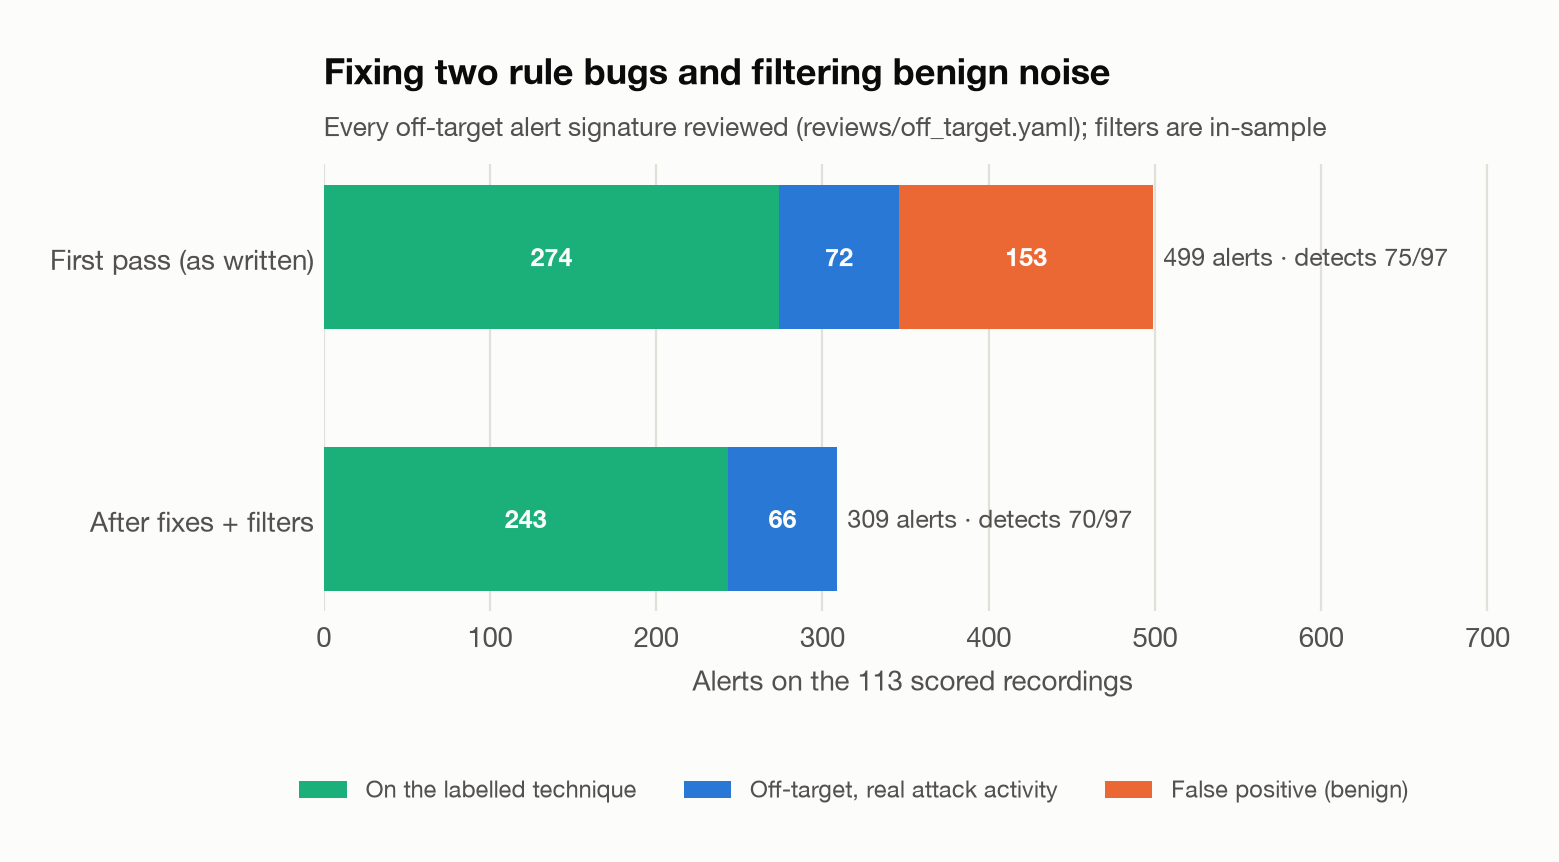
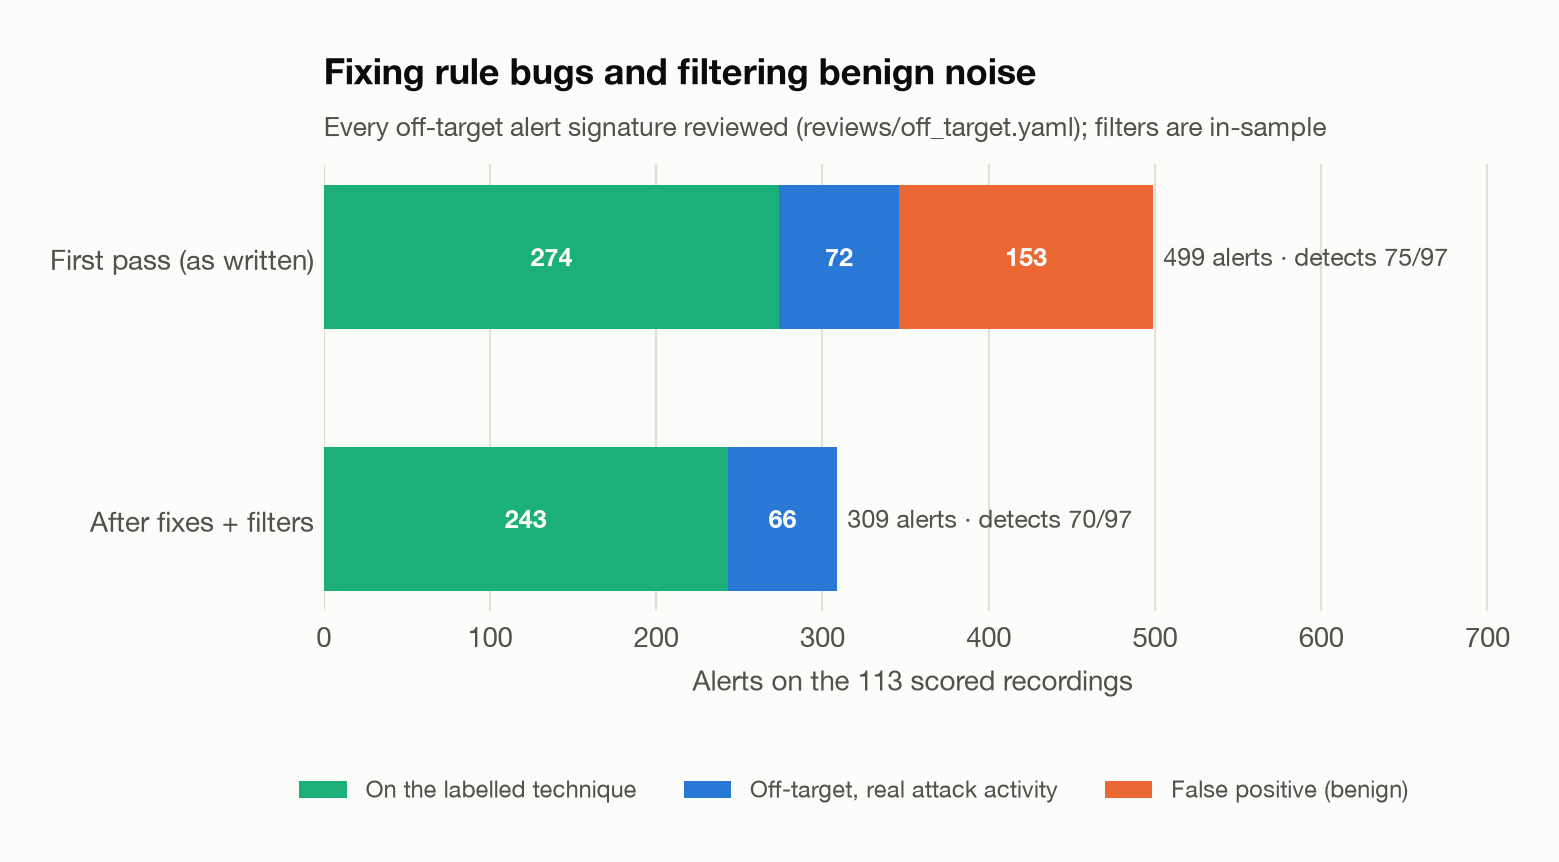
Reports: correct a verdict rationale and two hard-coded captions
- The 0x1010 LSASS access in the over-pass-the-hash recording is read-only
  (VM_READ + QUERY_LIMITED); its rationale said "write rights", copied from the
  0x1038 entry.
- The before/after figure and REPORT.md said "two rule bugs" / "two classes";
  the tuning log now holds more fixes, so the text no longer counts them.
- The rule-matrix caption called a star a "labelled detection", but it marks an
  expected detection (parent-technique credit included), which differs from the
  per-rule "own technique" column for powershell_download_cradle.

Reports and figures regenerated with `dac evaluate` / the first-pass rebuild;
metrics.json and the detection matrices are unchanged.

Changed region(s): [[0.2771, 0.0603, 0.7081, 0.1206]]

diff --git a/src/dac/plots.py b/src/dac/plots.py
@@ -180,7 +180,7 @@ def alerts_before_after(first: dict[str, Any], final: dict[str, Any], path: Path
     )
     _titles(
         ax,
-        "Fixing two rule bugs and filtering benign noise",
+        "Fixing rule bugs and filtering benign noise",
         "Every off-target alert signature reviewed (reviews/off_target.yaml); "
         "filters are in-sample",
     )
@@ -238,7 +238,7 @@ def rule_matrix(
     _titles(
         ax,
         "Where each rule fires",
-        "Recordings with at least one alert, by recording tactic; * includes a labelled detection",
+        "Recordings with at least one alert, by recording tactic; * includes an expected detection",
         offset=44,
     )
     return _save(fig, path)

diff --git a/src/dac/report.py b/src/dac/report.py
@@ -94,7 +94,7 @@ def write_report(
             "## First pass vs. after tuning",
             "",
             "The first pass is the rule set as written, before looking at any result. Tuning fixed "
-            "two classes of rule bugs and added benign-noise filters (see "
+            "rule bugs and added benign-noise filters (see "
             "`reviews/tuning_log.yaml`; the exact rule diff is in "
             "`reports/first_pass/rules.diff`).",
             "",

diff --git a/reports/REPORT.md b/reports/REPORT.md
@@ -14,7 +14,7 @@ Generated by `dac evaluate` on 2026-10-13. Data: [OTRF/Security-Datasets](https:
 
 ## First pass vs. after tuning
 
-The first pass is the rule set as written, before looking at any result. Tuning fixed two classes of rule bugs and added benign-noise filters (see `reviews/tuning_log.yaml`; the exact rule diff is in `reports/first_pass/rules.diff`).
+The first pass is the rule set as written, before looking at any result. Tuning fixed rule bugs and added benign-noise filters (see `reviews/tuning_log.yaml`; the exact rule diff is in `reports/first_pass/rules.diff`).
 
 | | First pass | After tuning |
 |---|---:|---:|
@@ -131,7 +131,7 @@ Five first-pass detections were right for the wrong reason: the admin-share rule
 | create_remote_thread_injection | `SourceImage=wuauclt.exe \| TargetImage=&lt;unknown process&gt;` | 1 | 1 | attack | wuauclt.exe proxy-loads a DLL that then creates a remote thread; the recording is labelled only with the proxy-execution technique (T1218). |
 | dcom_lateral_execution | `ParentImage=explorer.exe \| Image=powershell.exe \| Verb=-c` | 1 | 1 | attack | Run-key persistence firing at logon: explorer.exe starts the registered PowerShell launcher. The recording's own technique, seen at execution time. |
 | lsass_memory_access | `SourceImage=wsmprovhost.exe \| GrantedAccess=0x1410` | 8 | 1 | attack | Process enumeration from .NET code inside the operator's PowerShell Remoting session (CallTrace shows JIT frames in wsmprovhost); LSASS is opened as one of all processes. |
-| lsass_memory_access | `SourceImage=powershell.exe \| GrantedAccess=0x1010` | 1 | 1 | attack | In-memory tooling opening LSASS with write rights to patch it for over-pass-the-hash, the technique the recording is labelled with (T1550.002). |
+| lsass_memory_access | `SourceImage=powershell.exe \| GrantedAccess=0x1010` | 1 | 1 | attack | In-memory tooling (unbacked frames in the CallTrace) opening LSASS with read rights, the read half of the over-pass-the-hash patch the recording is labelled with (T1550.002). |
 | lsass_memory_access | `SourceImage=powershell.exe \| GrantedAccess=0x1038` | 1 | 1 | attack | In-memory tooling opening LSASS with write rights to patch it for over-pass-the-hash, the technique the recording is labelled with (T1550.002). |
 | lsass_memory_access | `SourceImage=wsmprovhost.exe \| GrantedAccess=0x1f3fff` | 1 | 1 | attack | Process enumeration from .NET code inside the operator's PowerShell Remoting session (CallTrace shows JIT frames in wsmprovhost); LSASS is opened as one of all processes. |
 | netsh_firewall_rule_added | `ParentImage=powershell.exe \| Image=netsh.exe \| Verb=advfirewall` | 4 | 1 | attack | The operator opening an inbound firewall port for the Python web server the recording is about (labelled T1059). |

diff --git a/reports/first_pass/REPORT.md b/reports/first_pass/REPORT.md
@@ -120,7 +120,7 @@ Generated by `dac evaluate` on 2026-10-13. Data: [OTRF/Security-Datasets](https:
 | lsass_memory_access | `SourceImage=collectguestlogs.exe \| GrantedAccess=0x1410` | 6 | 4 | benign | Azure VM guest agent log collector (C:\WindowsAzure\...\CollectGuestLogs.exe) reading process information. Filtered by path. |
 | lsass_memory_access | `SourceImage=csrss.exe \| GrantedAccess=0x1fffff` | 3 | 3 | benign | The session manager holds a full-access handle to LSASS at boot (recordings that include a reboot). Filtered by full system path. |
 | lsass_memory_access | `SourceImage=wininit.exe \| GrantedAccess=0x1fffff` | 3 | 3 | benign | wininit.exe is LSASS's parent process; full access at boot is normal. Filtered by full system path. |
-| lsass_memory_access | `SourceImage=powershell.exe \| GrantedAccess=0x1010` | 1 | 1 | attack | In-memory tooling opening LSASS with write rights to patch it for over-pass-the-hash, the technique the recording is labelled with (T1550.002). |
+| lsass_memory_access | `SourceImage=powershell.exe \| GrantedAccess=0x1010` | 1 | 1 | attack | In-memory tooling (unbacked frames in the CallTrace) opening LSASS with read rights, the read half of the over-pass-the-hash patch the recording is labelled with (T1550.002). |
 | lsass_memory_access | `SourceImage=powershell.exe \| GrantedAccess=0x1038` | 1 | 1 | attack | In-memory tooling opening LSASS with write rights to patch it for over-pass-the-hash, the technique the recording is labelled with (T1550.002). |
 | lsass_memory_access | `SourceImage=wmiprvse.exe \| GrantedAccess=0x1410` | 1 | 1 | benign | WmiPrvSE opens every process with query+read rights to answer Win32_Process queries (here a remote wmic process listing). Every inventory or monitoring query does the same. |
 | lsass_memory_access | `SourceImage=wsmprovhost.exe \| GrantedAccess=0x1f3fff` | 1 | 1 | attack | Process enumeration from .NET code inside the operator's PowerShell Remoting session (CallTrace shows JIT frames in wsmprovhost); LSASS is opened as one of all processes. |
